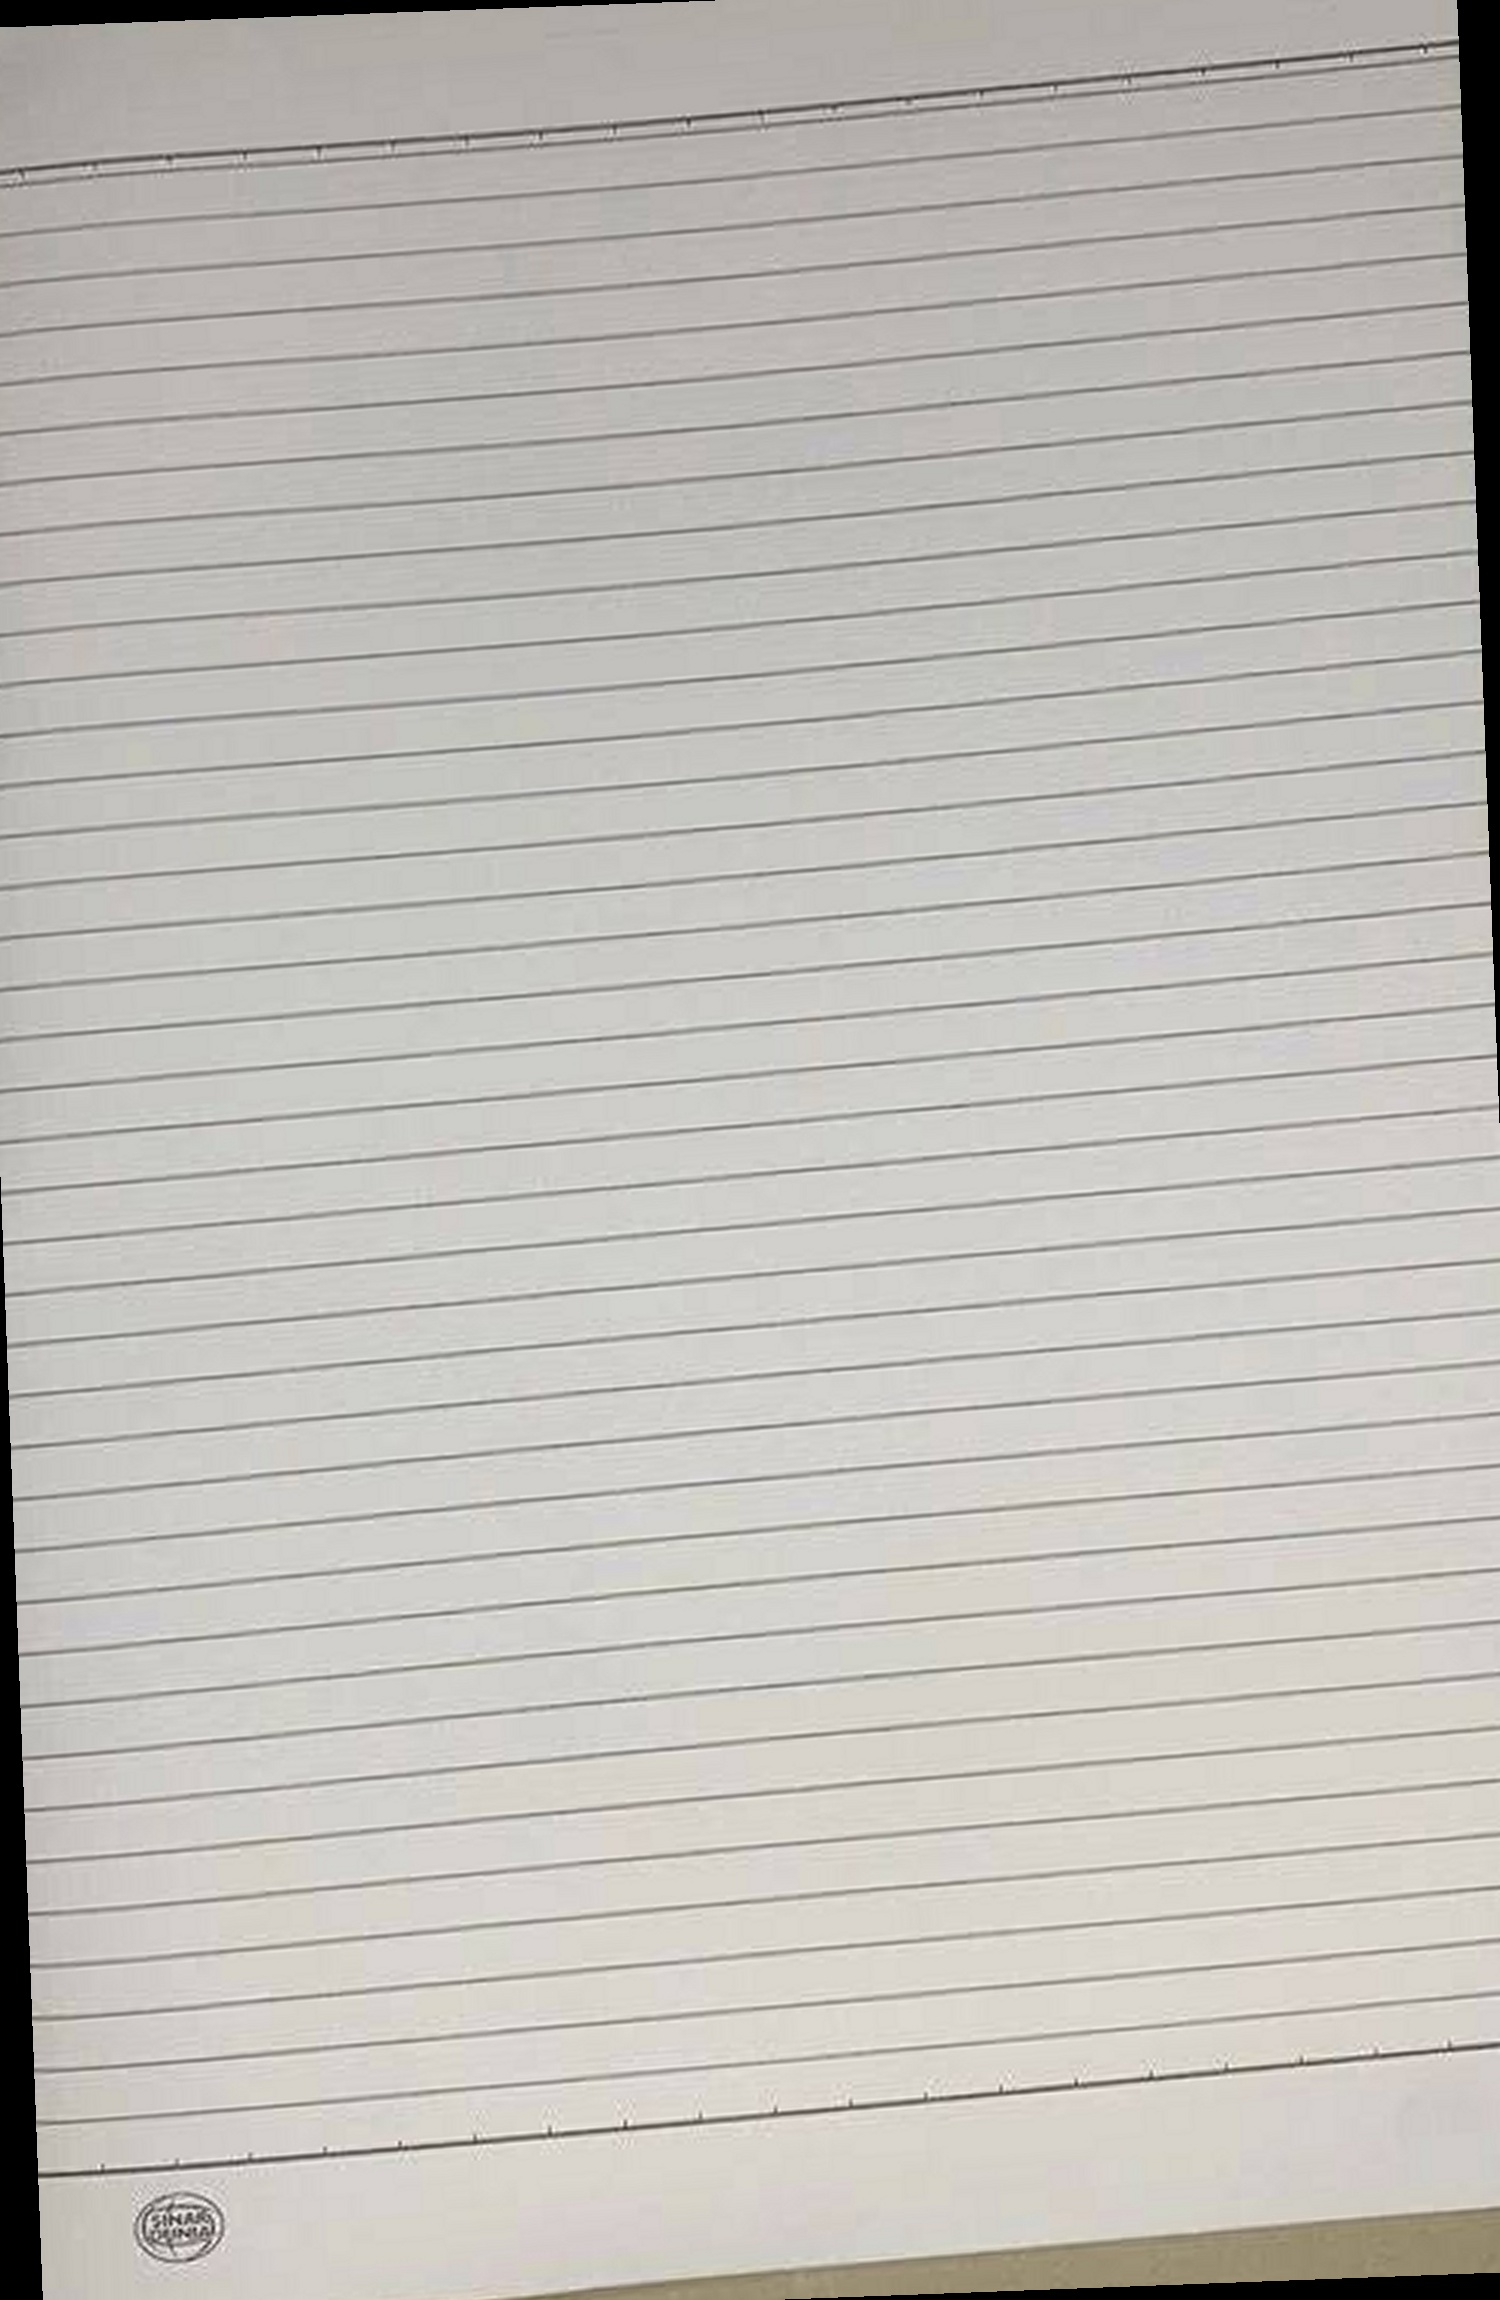
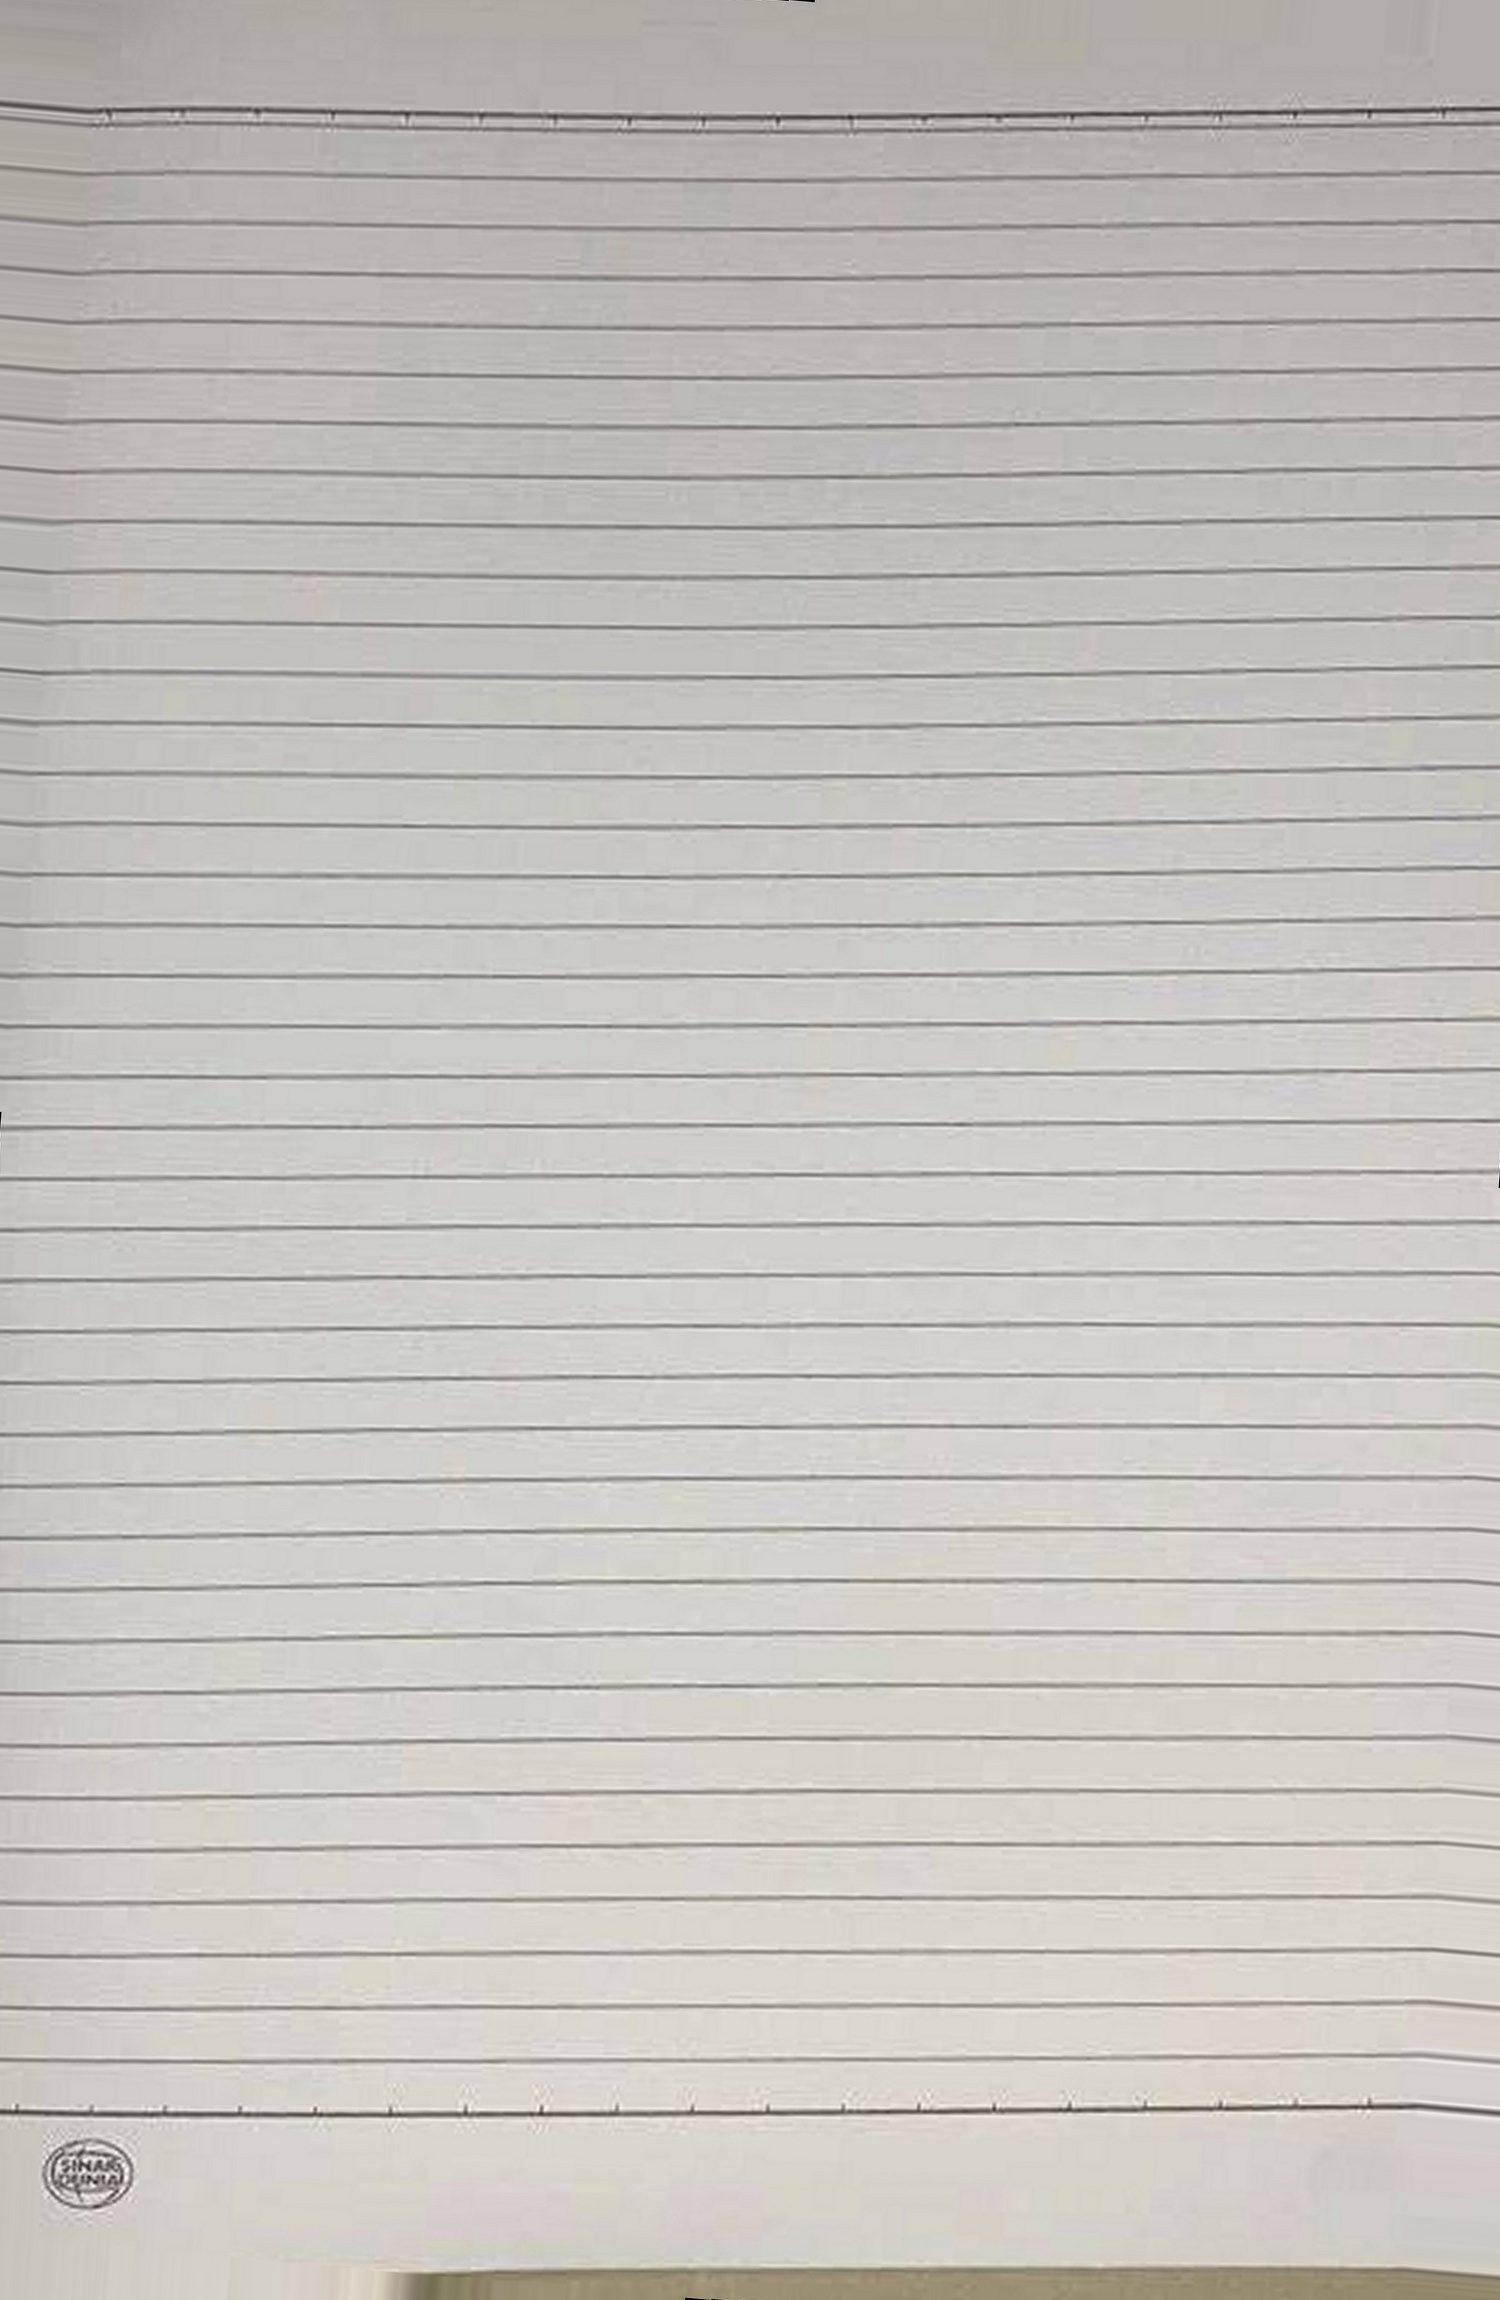
fix(handwriting): level Sinar Dunia paper lines, remove text sagging and line drift, align baseline perfectly to ruled lines

Changed region(s): [[0.0, 0.0, 1.0, 1.0], [0.552, 0.957, 1.0, 1.0], [0.2453, 0.9878, 0.4907, 1.0]]

diff --git a/src/tools/handwriting.py b/src/tools/handwriting.py
@@ -4,6 +4,7 @@ import os
 import json
 import random
 import math
+import numpy as np
 from PIL import Image, ImageDraw, ImageFilter, ImageChops, ImageFont
 
 SCRIPT_DIR = os.path.dirname(os.path.abspath(__file__))
@@ -32,13 +33,19 @@ def get_rnn_model():
 def load_canvas(paper_type='sidu'):
     # Default: Real photograph of Sinar Dunia notebook (with authentic camera lighting & texture)
     sidu_photo = os.path.join(TEMPLATES_DIR, 'sidu_hd_template.jpg')
+    lines_maps_json = os.path.join(TEMPLATES_DIR, 'horizontal_line_maps.json')
     lines_json = os.path.join(TEMPLATES_DIR, 'horizontal_lines.json')
 
-    if paper_type in ['sidu', 'folio'] and os.path.exists(sidu_photo) and os.path.exists(lines_json):
+    if paper_type in ['sidu', 'folio'] and os.path.exists(sidu_photo) and os.path.exists(lines_maps_json):
+        paper = Image.open(sidu_photo).convert('RGB')
+        with open(lines_maps_json, 'r') as f:
+            data = json.load(f)
+        return paper, data['lines'], data['line_maps'], 115
+    elif paper_type in ['sidu', 'folio'] and os.path.exists(sidu_photo) and os.path.exists(lines_json):
         paper = Image.open(sidu_photo).convert('RGB')
         with open(lines_json, 'r') as f:
             lines_y = json.load(f)
-        return paper, lines_y, 115
+        return paper, lines_y, None, 115
 
     # Loose Leaf B5 option
     b5_path = os.path.join(TEMPLATES_DIR, 'loose_leaf_b5.jpg')
@@ -47,19 +54,35 @@ def load_canvas(paper_type='sidu'):
         pw, ph = paper.size
         top_margin = 210
         lines_y = list(range(top_margin, ph - 120, 54))
-        return paper, lines_y, 245
+        return paper, lines_y, None, 245
 
     # Fallback
     width, height = 1500, 2300
     paper = Image.new('RGB', (width, height), (252, 251, 246))
     lines_y = list(range(180, height - 140, 54))
-    return paper, lines_y, 115
+    return paper, lines_y, None, 115
+
+def get_exact_line_y(lines_y, line_maps, line_idx, x):
+    if line_maps and line_idx < len(line_maps):
+        m = line_maps[line_idx]
+        rx = round(x / 25.0) * 25
+        if str(rx) in m:
+            return m[str(rx)]
+        avail = sorted([int(k) for k in m.keys()])
+        if x <= avail[0]: return m[str(avail[0])]
+        if x >= avail[-1]: return m[str(avail[-1])]
+        for i in range(len(avail)-1):
+            if avail[i] <= x <= avail[i+1]:
+                t = (x - avail[i]) / (avail[i+1] - avail[i])
+                return (1-t) * m[str(avail[i])] + t * m[str(avail[i+1])]
+    return lines_y[line_idx]
 
 def render_handwriting(text, output_path, font_path=None, name="", nim="", date="", paper_type="sidu"):
-    paper, lines_y, content_left = load_canvas(paper_type)
+    paper, lines_y, line_maps, content_left = load_canvas(paper_type)
     pw, ph = paper.size
 
     rnn = get_rnn_model()
+    print(f"DEBUG: rnn is {rnn}")
 
     # White canvas for multiply blend
     ink_canvas = Image.new('RGB', (pw, ph), (255, 255, 255))
@@ -100,13 +123,13 @@ def render_handwriting(text, output_path, font_path=None, name="", nim="", date=
         if line_idx >= len(lines_y): break
         if not line_text.strip(): continue
 
-        line_y = lines_y[line_idx]
-
         ox = content_left
         if line_text.startswith(('1.', '2.', '3.', '4.', '5.', '6.', '7.', '8.', '9.')):
             ox = content_left + 15
         elif line_text.startswith(('- ', '   ', 'Jawab:')):
             ox = content_left + 35
+        elif l_i == 0:
+            ox = content_left + 45 # Paragraph indent
 
         # Render using Alex Graves Neural Network (Style 3) if available
         if rnn is not None:
@@ -114,46 +137,70 @@ def render_handwriting(text, output_path, font_path=None, name="", nim="", date=
             safe_text = ''.join(c for c in line_text if c in rnn.vocabulary or c == ' ')
             if not safe_text.strip(): continue
 
-            # Try up to 5 seeds to avoid stall/glitch
+            # Try up to 8 seeds to avoid stall/glitch
             points = None
             pts = []
-            for seed_offset in range(5):
-                seed = random.randint(10, 999999) + seed_offset
+            for seed_offset in range(8):
+                seed = random.randint(100, 999999) + seed_offset * 77
                 budget = len(safe_text) * 75
-                pts, reason = rnn.sample(safe_text, style=3, bias=0.58, seed=seed, budget=budget)
+                pts, reason = rnn.sample(safe_text, style=3, bias=0.65, seed=seed, budget=budget)
                 if reason == 'finished':
                     points = pts
                     break
             if points is None:
                 points = pts
 
+            # Quadratic baseline detrending to prevent any sagging/floating
+            pts_x = np.array([p[0] for p in points])
+            pts_y = np.array([p[1] for p in points])
+
+            if len(points) > 15:
+                poly = np.polyfit(pts_x, pts_y, 2)
+                drift = np.polyval(poly, pts_x)
+            else:
+                drift = 0.0
+
             scale = 1.35
-            base_target_y = line_y - 5.0 # Base letters sit directly on the line without floating
-
             prev = None
-            for p in points:
-                x, y, pen_up = p[0] * scale, p[1] * scale, p[2]
-                coord = (x + ox, y + base_target_y)
+            prev_coord = None
+            drift_arr = drift if isinstance(drift, np.ndarray) else np.zeros(len(points))
+            for idx_p, p in enumerate(points):
+                d_val = float(drift_arr[idx_p])
+                corrected_y = (p[1] - d_val) * scale
+                cur_x = p[0] * scale + ox
+                real_line_y = get_exact_line_y(lines_y, line_maps, line_idx, cur_x)
+                cur_y = corrected_y + real_line_y - 3.0
+                coord = (cur_x, cur_y)
 
-                if prev is not None and prev[2] == 0:
-                    dx = x - prev[0] * scale
-                    dy = y - prev[1] * scale
+                if prev is not None and prev[2] == 0 and prev_coord is not None:
+                    dx = cur_x - prev_coord[0]
+                    dy = cur_y - prev_coord[1]
                     dist = math.hypot(dx, dy)
 
-                    # Dynamic ballpoint pen pressure
-                    stroke_w = max(1.8, min(2.5, 2.4 - dist * 0.08))
-                    # Authentic Zebra Kokoro / Joyko black gel pen color
-                    ink_color = (20, 22, 28)
+                    # Dynamic ballpoint/gel pen pressure
+                    stroke_w = max(1.7, min(2.8, 2.65 - dist * 0.09))
 
-                    draw_ink.line([(prev[0] * scale + ox, prev[1] * scale + base_target_y), coord], fill=ink_color, width=int(round(stroke_w)))
-                    r = stroke_w / 2.0
-                    draw_ink.ellipse([coord[0] - r, coord[1] - r, coord[0] + r, coord[1] + r], fill=ink_color)
+                    press = random.uniform(0.95, 1.04)
+                    r = int(18 * press)
+                    g = int(20 * press)
+                    b = int(26 * press)
+
+                    draw_ink.line([prev_coord, coord], fill=(r, g, b), width=int(round(stroke_w)))
+                    rad = stroke_w / 2.0
+                    draw_ink.ellipse([coord[0] - rad, coord[1] - rad, coord[0] + rad, coord[1] + rad], fill=(r, g, b))
+
+                    # Ink pooling at sharp direction changes / pen lift-off
+                    if dist < 0.6 or dist > 14:
+                        pr = stroke_w * 0.6
+                        draw_ink.ellipse([coord[0] - pr, coord[1] - pr, coord[0] + pr, coord[1] + pr], fill=(12, 14, 18))
 
                 prev = p
+                prev_coord = coord
         else:
             # Fallback to TTF font if RNN not available
             font_file = os.path.join(FONTS_DIR, 'My_handwriting.ttf')
             font = ImageFont.truetype(font_file, 44) if os.path.exists(font_file) else ImageFont.load_default()
+            line_y = lines_y[line_idx]
             draw_ink.text((ox, line_y - 35), line_text, fill=(22, 24, 30), font=font)
 
     # Micro ink-bleed into paper fiber
